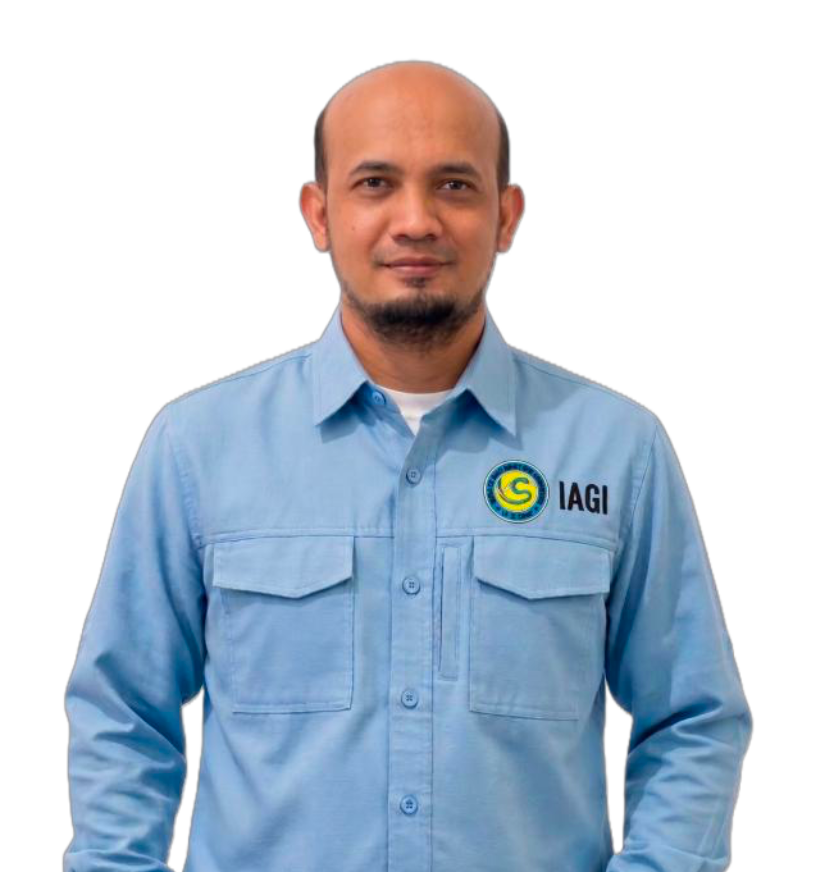
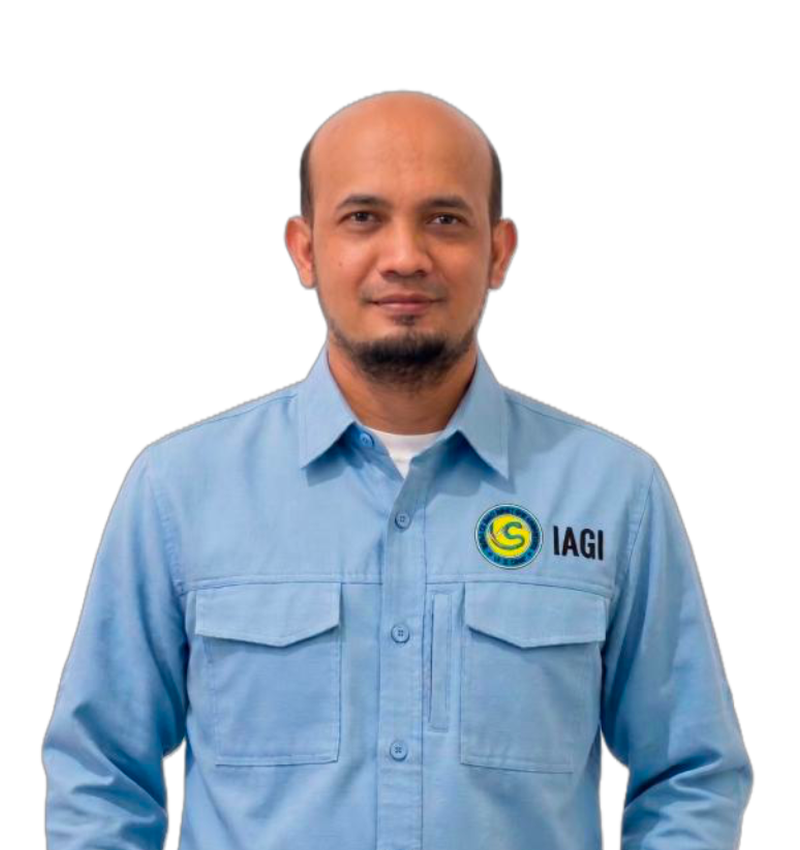
feat(candidates): sejajarkan foto caketum & sesuaikan pose badan menghadap depan konsisten seperti nomor urut 02

Changed region(s): [[0.0312, 0.0612, 0.9375, 1.0], [0.3438, 0.7953, 0.375, 0.8259]]

diff --git a/PEMILU IAGI/index.html b/PEMILU IAGI/index.html
@@ -182,7 +182,7 @@
         <!-- CANDIDATE 01 -->
         <article class="candidate-card-showcase">
           <div class="candidate-photo-header">
-            <img src="assets/candidate-1.png" alt="Mirzam Abdurrachman" loading="lazy">
+            <img src="assets/candidate-1.png?v=20261019" alt="Mirzam Abdurrachman" loading="lazy">
             <div class="candidate-photo-overlay"></div>
             <span class="candidate-num-pill">NO. URUT 01</span>
             <span class="candidate-npa-pill">NPA: 03457</span>
@@ -210,7 +210,7 @@
         <!-- CANDIDATE 02 -->
         <article class="candidate-card-showcase">
           <div class="candidate-photo-header">
-            <img src="assets/candidate-2.png" alt="Sonny Yudhistira" loading="lazy">
+            <img src="assets/candidate-2.png?v=20261019" alt="Sonny Yudhistira" loading="lazy">
             <div class="candidate-photo-overlay"></div>
             <span class="candidate-num-pill">NO. URUT 02</span>
             <span class="candidate-npa-pill">NPA: 03749</span>
@@ -238,7 +238,7 @@
         <!-- CANDIDATE 03 -->
         <article class="candidate-card-showcase">
           <div class="candidate-photo-header">
-            <img src="assets/candidate-3.png" alt="Sri Hartanto" loading="lazy">
+            <img src="assets/candidate-3.png?v=20261019" alt="Sri Hartanto" loading="lazy">
             <div class="candidate-photo-overlay"></div>
             <span class="candidate-num-pill">NO. URUT 03</span>
             <span class="candidate-npa-pill">NPA: 05653</span>
@@ -568,7 +568,7 @@
         <!-- CARD 5: Kandidat 01 -->
         <article class="project-card" data-cat="candidate" data-tags="live" onclick="openCandidateModal(1)">
           <div class="card-thumb-frame">
-            <img src="assets/candidate-1.png" alt="Caketum 01 - Mirzam Abdurrachman" loading="lazy">
+            <img src="assets/candidate-1.png?v=20261019" alt="Caketum 01 - Mirzam Abdurrachman" loading="lazy">
             <button class="likes-pill" onclick="event.stopPropagation(); toggleLike(this, 'like-cand-1')" aria-label="Suka Caketum 01">
               <svg viewBox="0 0 24 24"><path d="M12 21.35l-1.45-1.32C5.4 15.36 2 12.28 2 8.5 2 5.42 4.42 3 7.5 3c1.74 0 3.41.81 4.5 2.09C13.09 3.81 14.76 3 16.5 3 19.58 3 22 5.42 22 8.5c0 3.78-3.4 6.86-8.55 11.54L12 21.35z"/></svg>
               <span class="like-num">512</span>
@@ -594,7 +594,7 @@
         <!-- CARD 6: Kandidat 02 -->
         <article class="project-card" data-cat="candidate" data-tags="live" onclick="openCandidateModal(2)">
           <div class="card-thumb-frame">
-            <img src="assets/candidate-2.png" alt="Caketum 02 - Sonny Yudhistira" loading="lazy">
+            <img src="assets/candidate-2.png?v=20261019" alt="Caketum 02 - Sonny Yudhistira" loading="lazy">
             <button class="likes-pill" onclick="event.stopPropagation(); toggleLike(this, 'like-cand-2')" aria-label="Suka Caketum 02">
               <svg viewBox="0 0 24 24"><path d="M12 21.35l-1.45-1.32C5.4 15.36 2 12.28 2 8.5 2 5.42 4.42 3 7.5 3c1.74 0 3.41.81 4.5 2.09C13.09 3.81 14.76 3 16.5 3 19.58 3 22 5.42 22 8.5c0 3.78-3.4 6.86-8.55 11.54L12 21.35z"/></svg>
               <span class="like-num">489</span>
@@ -620,7 +620,7 @@
         <!-- CARD 6B: Kandidat 03 -->
         <article class="project-card" data-cat="candidate" data-tags="live" onclick="openCandidateModal(3)">
           <div class="card-thumb-frame">
-            <img src="assets/candidate-3.png" alt="Caketum 03 - Sri Hartanto" loading="lazy">
+            <img src="assets/candidate-3.png?v=20261019" alt="Caketum 03 - Sri Hartanto" loading="lazy">
             <button class="likes-pill" onclick="event.stopPropagation(); toggleLike(this, 'like-cand-3')" aria-label="Suka Caketum 03">
               <svg viewBox="0 0 24 24"><path d="M12 21.35l-1.45-1.32C5.4 15.36 2 12.28 2 8.5 2 5.42 4.42 3 7.5 3c1.74 0 3.41.81 4.5 2.09C13.09 3.81 14.76 3 16.5 3 19.58 3 22 5.42 22 8.5c0 3.78-3.4 6.86-8.55 11.54L12 21.35z"/></svg>
               <span class="like-num">476</span>

diff --git a/PEMILU IAGI/landing.html b/PEMILU IAGI/landing.html
@@ -175,7 +175,7 @@
         <!-- CANDIDATE 01 -->
         <article class="candidate-card-showcase">
           <div class="candidate-photo-header">
-            <img src="assets/candidate-1.png" alt="Mirzam Abdurrachman" loading="lazy">
+            <img src="assets/candidate-1.png?v=20261019" alt="Mirzam Abdurrachman" loading="lazy">
             <div class="candidate-photo-overlay"></div>
             <span class="candidate-num-pill">NO. URUT 01</span>
             <span class="candidate-npa-pill">NPA: 03457</span>
@@ -203,7 +203,7 @@
         <!-- CANDIDATE 02 -->
         <article class="candidate-card-showcase">
           <div class="candidate-photo-header">
-            <img src="assets/candidate-2.png" alt="Sonny Yudhistira" loading="lazy">
+            <img src="assets/candidate-2.png?v=20261019" alt="Sonny Yudhistira" loading="lazy">
             <div class="candidate-photo-overlay"></div>
             <span class="candidate-num-pill">NO. URUT 02</span>
             <span class="candidate-npa-pill">NPA: 03749</span>
@@ -231,7 +231,7 @@
         <!-- CANDIDATE 03 -->
         <article class="candidate-card-showcase">
           <div class="candidate-photo-header">
-            <img src="assets/candidate-3.png" alt="Sri Hartanto" loading="lazy">
+            <img src="assets/candidate-3.png?v=20261019" alt="Sri Hartanto" loading="lazy">
             <div class="candidate-photo-overlay"></div>
             <span class="candidate-num-pill">NO. URUT 03</span>
             <span class="candidate-npa-pill">NPA: 05653</span>
@@ -561,7 +561,7 @@
         <!-- CARD 5: Kandidat 01 -->
         <article class="project-card" data-cat="candidate" data-tags="live" onclick="openCandidateModal(1)">
           <div class="card-thumb-frame">
-            <img src="assets/candidate-1.png" alt="Caketum 01 - Mirzam Abdurrachman" loading="lazy">
+            <img src="assets/candidate-1.png?v=20261019" alt="Caketum 01 - Mirzam Abdurrachman" loading="lazy">
             <button class="likes-pill" onclick="event.stopPropagation(); toggleLike(this, 'like-cand-1')" aria-label="Suka Caketum 01">
               <svg viewBox="0 0 24 24"><path d="M12 21.35l-1.45-1.32C5.4 15.36 2 12.28 2 8.5 2 5.42 4.42 3 7.5 3c1.74 0 3.41.81 4.5 2.09C13.09 3.81 14.76 3 16.5 3 19.58 3 22 5.42 22 8.5c0 3.78-3.4 6.86-8.55 11.54L12 21.35z"/></svg>
               <span class="like-num">512</span>
@@ -587,7 +587,7 @@
         <!-- CARD 6: Kandidat 02 -->
         <article class="project-card" data-cat="candidate" data-tags="live" onclick="openCandidateModal(2)">
           <div class="card-thumb-frame">
-            <img src="assets/candidate-2.png" alt="Caketum 02 - Sonny Yudhistira" loading="lazy">
+            <img src="assets/candidate-2.png?v=20261019" alt="Caketum 02 - Sonny Yudhistira" loading="lazy">
             <button class="likes-pill" onclick="event.stopPropagation(); toggleLike(this, 'like-cand-2')" aria-label="Suka Caketum 02">
               <svg viewBox="0 0 24 24"><path d="M12 21.35l-1.45-1.32C5.4 15.36 2 12.28 2 8.5 2 5.42 4.42 3 7.5 3c1.74 0 3.41.81 4.5 2.09C13.09 3.81 14.76 3 16.5 3 19.58 3 22 5.42 22 8.5c0 3.78-3.4 6.86-8.55 11.54L12 21.35z"/></svg>
               <span class="like-num">489</span>
@@ -613,7 +613,7 @@
         <!-- CARD 6B: Kandidat 03 -->
         <article class="project-card" data-cat="candidate" data-tags="live" onclick="openCandidateModal(3)">
           <div class="card-thumb-frame">
-            <img src="assets/candidate-3.png" alt="Caketum 03 - Sri Hartanto" loading="lazy">
+            <img src="assets/candidate-3.png?v=20261019" alt="Caketum 03 - Sri Hartanto" loading="lazy">
             <button class="likes-pill" onclick="event.stopPropagation(); toggleLike(this, 'like-cand-3')" aria-label="Suka Caketum 03">
               <svg viewBox="0 0 24 24"><path d="M12 21.35l-1.45-1.32C5.4 15.36 2 12.28 2 8.5 2 5.42 4.42 3 7.5 3c1.74 0 3.41.81 4.5 2.09C13.09 3.81 14.76 3 16.5 3 19.58 3 22 5.42 22 8.5c0 3.78-3.4 6.86-8.55 11.54L12 21.35z"/></svg>
               <span class="like-num">476</span>

diff --git a/PEMILU IAGI/app.html b/PEMILU IAGI/app.html
@@ -187,7 +187,7 @@
                 <span class="snap-more-link">Visi & Misi ➜</span>
               </div>
               <div class="candidate-snap-body">
-                <img src="assets/candidate-1.png" alt="Mirzam Abdurrachman" class="candidate-snap-img" style="border-color:#0284C7;">
+                <img src="assets/candidate-1.png?v=20261019" alt="Mirzam Abdurrachman" class="candidate-snap-img" style="border-color:#0284C7;">
                 <div class="candidate-snap-meta">
                   <div class="candidate-snap-name">Mirzam Abdurrachman</div>
                   <div class="candidate-snap-title">Pakar Vulkanologi & Dosen ITB</div>
@@ -202,7 +202,7 @@
                 <span class="snap-more-link">Visi & Misi ➜</span>
               </div>
               <div class="candidate-snap-body">
-                <img src="assets/candidate-2.png" alt="Sonny Yudhistira" class="candidate-snap-img" style="border-color:#10B981;">
+                <img src="assets/candidate-2.png?v=20261019" alt="Sonny Yudhistira" class="candidate-snap-img" style="border-color:#10B981;">
                 <div class="candidate-snap-meta">
                   <div class="candidate-snap-name">Sonny Yudhistira</div>
                   <div class="candidate-snap-title">Eksplorasi Geologi & Bisnis Energi</div>
@@ -217,7 +217,7 @@
                 <span class="snap-more-link">Visi & Misi ➜</span>
               </div>
               <div class="candidate-snap-body">
-                <img src="assets/candidate-3.png" alt="Sri Hartanto" class="candidate-snap-img" style="border-color:#D97706;">
+                <img src="assets/candidate-3.png?v=20261019" alt="Sri Hartanto" class="candidate-snap-img" style="border-color:#D97706;">
                 <div class="candidate-snap-meta">
                   <div class="candidate-snap-name">Sri Hartanto</div>
                   <div class="candidate-snap-title">Senior Geoscientist & Tata Kelola</div>

diff --git a/PEMILU IAGI/js/data.js b/PEMILU IAGI/js/data.js
@@ -27,7 +27,7 @@ const CANDIDATES = [
     npa: "NPA: 03457",
     title: "Pakar Vulkanologi & Dosen Teknik Geologi ITB",
     tagline: "Geologi Berdaya, Berdampak, dan Menginspirasi untuk Indonesia",
-    photo: "assets/candidate-1.png",
+    photo: "assets/candidate-1.png?v=20261019",
     badge: "Kandidat 01",
     accentColor: "#0284C7",
     secondaryColor: "#F59E0B",
@@ -49,7 +49,7 @@ const CANDIDATES = [
     npa: "NPA: 03749",
     title: "Praktisi Geologi Eksplorasi & Bisnis Energi Kebumian",
     tagline: "IAGI Sinergis, Mandiri, dan Mengakselerasi Kesejahteraan Anggota",
-    photo: "assets/candidate-2.png",
+    photo: "assets/candidate-2.png?v=20261019",
     badge: "Kandidat 02",
     accentColor: "#10B981",
     secondaryColor: "#0284C7",
@@ -71,7 +71,7 @@ const CANDIDATES = [
     npa: "NPA: 05653",
     title: "Senior Geoscientist & Konsultan Tata Kelola Kebumian",
     tagline: "Transformasi Nyata IAGI: Profesional, Berintegritas, Menatap Masa Depan",
-    photo: "assets/candidate-3.png",
+    photo: "assets/candidate-3.png?v=20261019",
     badge: "Kandidat 03",
     accentColor: "#D97706",
     secondaryColor: "#2563EB",
